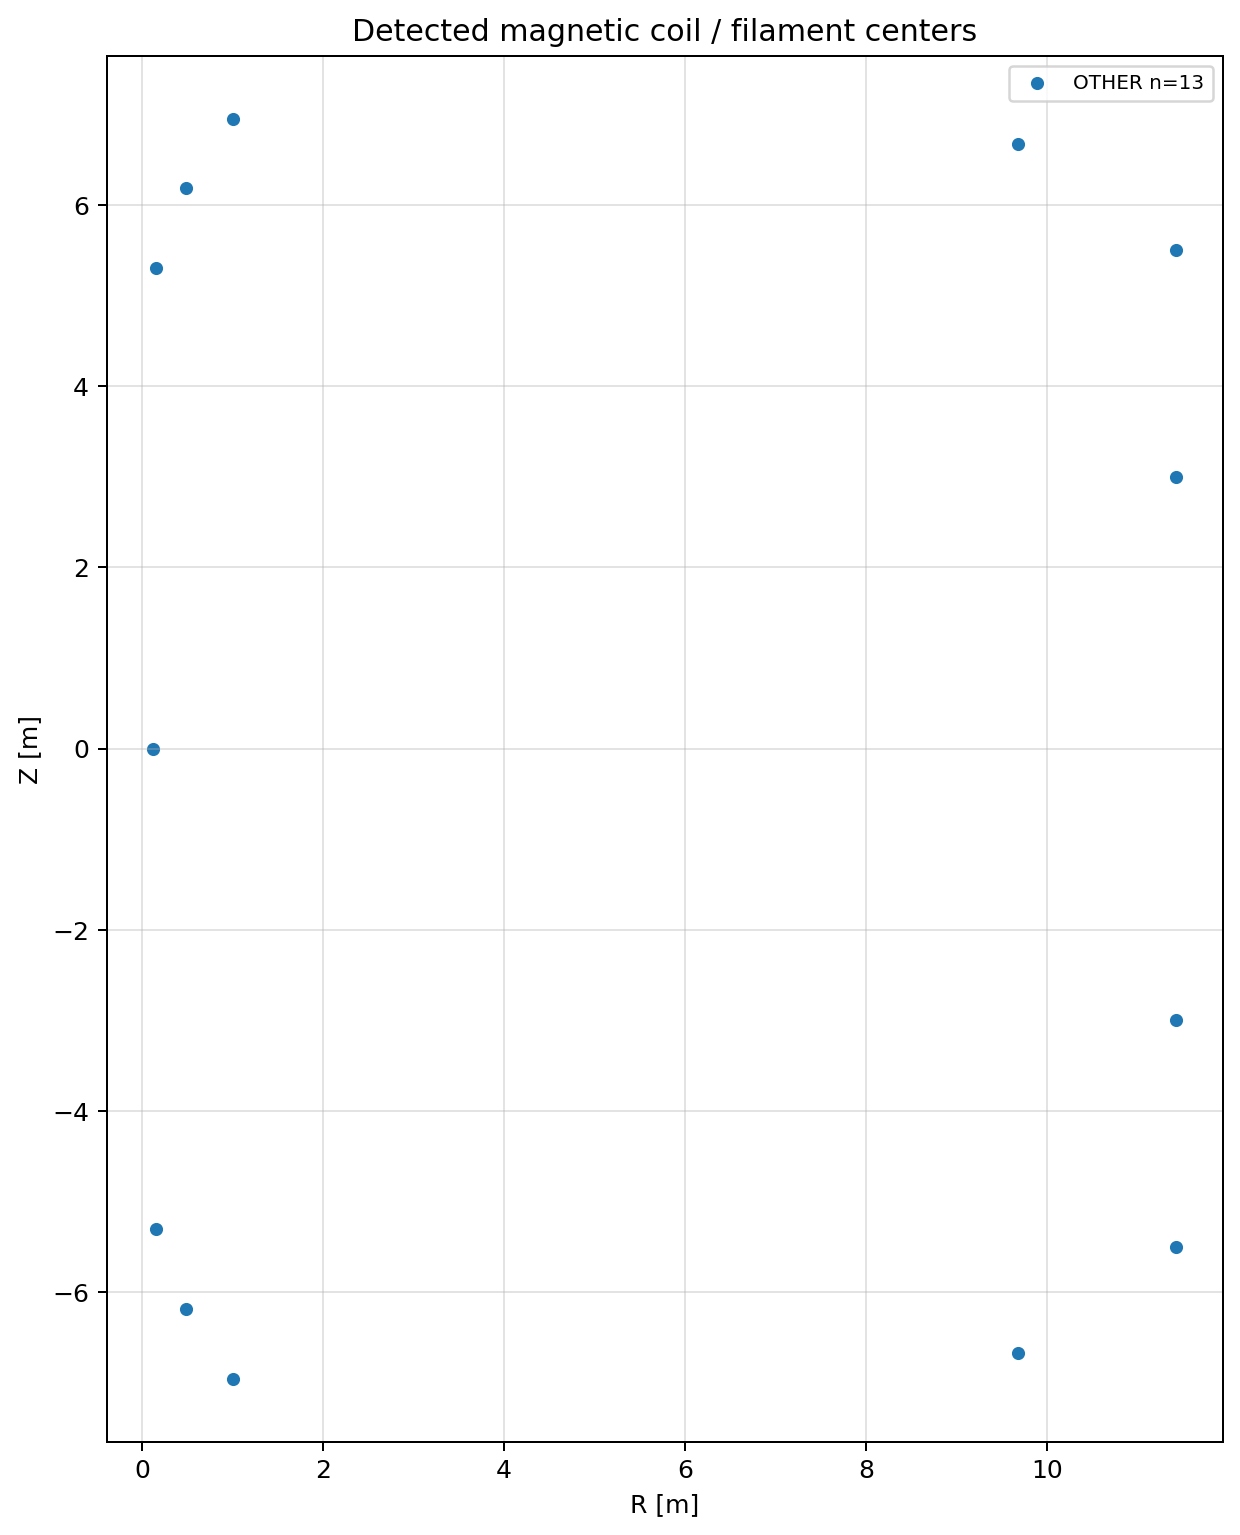
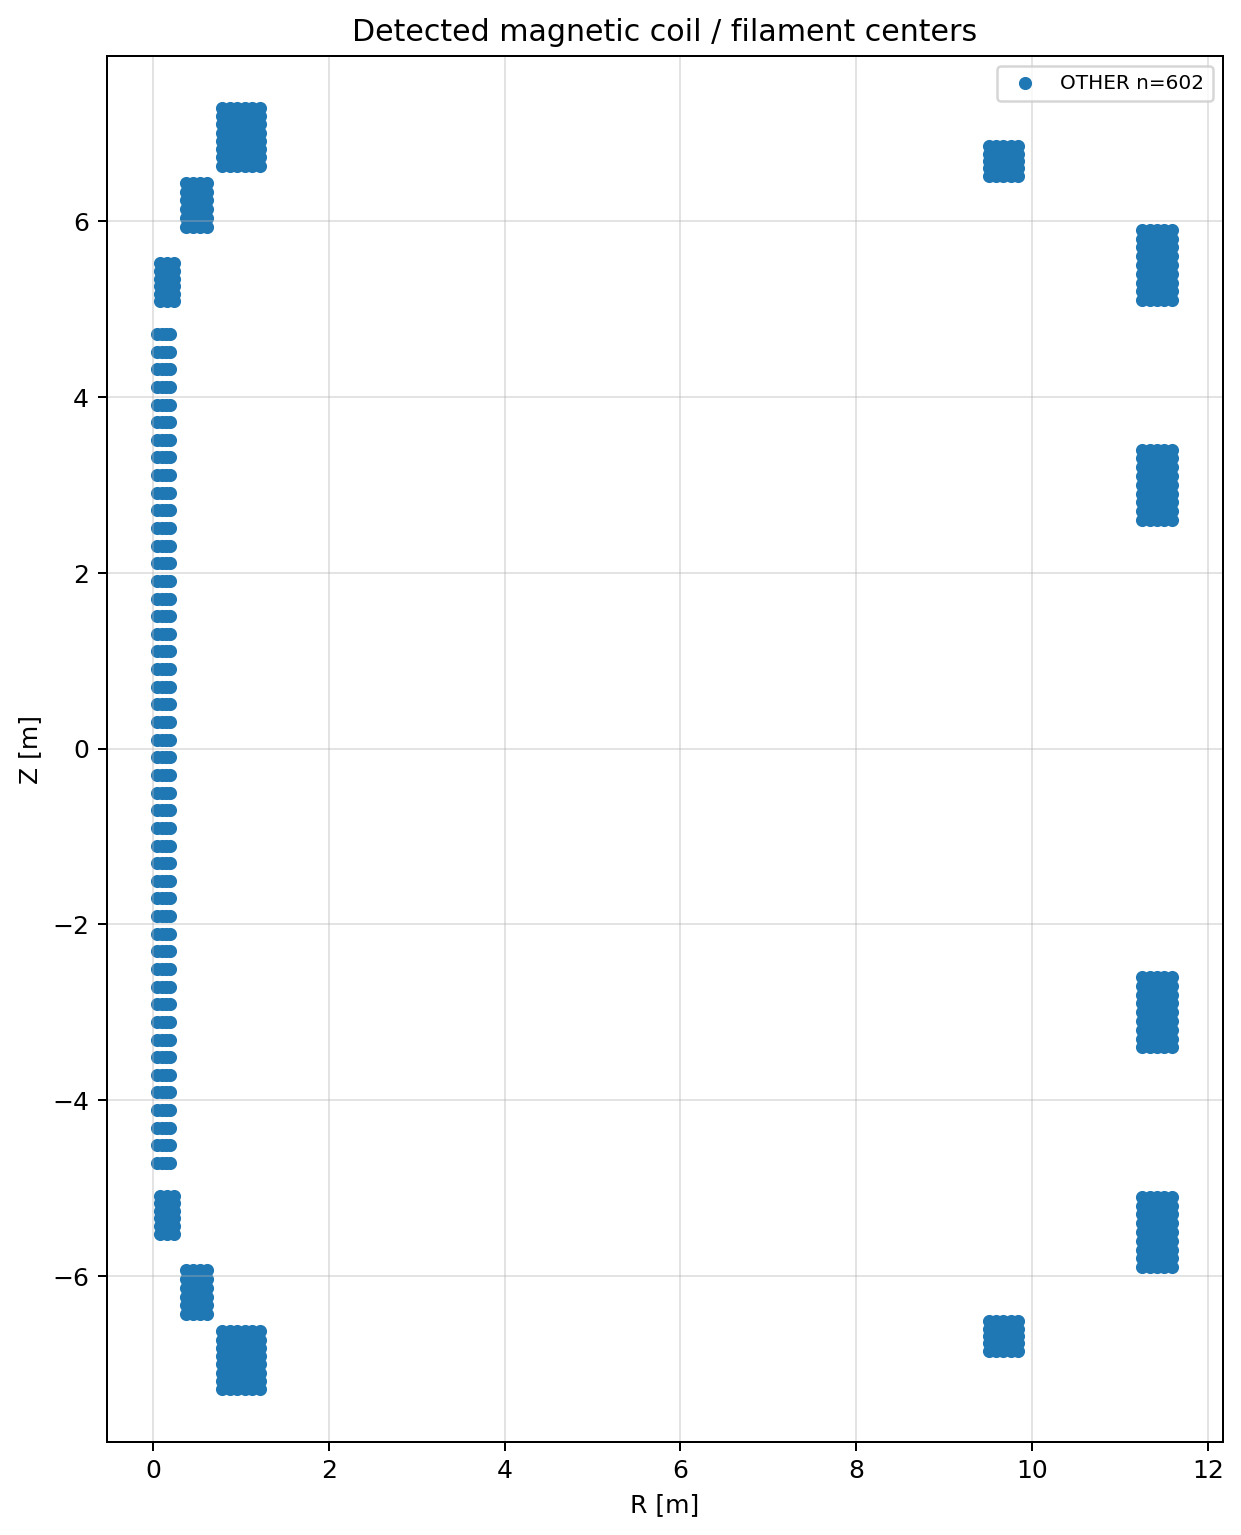
Better discretization coils

diff --git a/pyscripts/star_machine_cad.py b/pyscripts/star_machine_cad.py
@@ -191,6 +191,27 @@ class CADImportOptions:
     # Optional per-family overrides, e.g. {"CS": 35.0, "PF6": 45.0}
     family_J_override_A_per_mm2: Optional[Dict[str, float]] = None
 
+    # -------------------------
+    # Active coil discretization
+    # -------------------------
+    # If True, each CAD rectangular active coil is expanded into multiple
+    # smaller magnetic elements before building the FreeGS/freegs4e Machine.
+    coil_discretize_active: bool = True
+
+    # Target physical cell size for PF coils [m]
+    coil_target_dR_m: float = 0.12
+    coil_target_dZ_m: float = 0.12
+
+    # Target physical cell size for CS [m]
+    coil_target_dR_CS_m: float = 0.08
+    coil_target_dZ_CS_m: float = 0.18
+
+    # Safety clamps to avoid excessive filament counts
+    coil_nR_min: int = 2
+    coil_nZ_min: int = 2
+    coil_nR_max: int = 8
+    coil_nZ_max: int = 48
+
 
 # -----------------------------
 # Helpers
@@ -381,6 +402,147 @@ def _coil_from_rect_poly(xy: np.ndarray) -> Tuple[float, float, float, float]:
     dZ = 0.5 * (ymax - ymin)
     return Rc, Zc, dR, dZ
 
+def _active_coil_discretization_shape(label: str, dR: float, dZ: float, opts: CADImportOptions) -> Tuple[int, int]:
+    """
+    Choose nR, nZ from physical coil size, not from a fixed global grid.
+
+    dR, dZ are half-width and half-height of the CAD rectangular coil.
+    Full coil dimensions are:
+        width  = 2*dR
+        height = 2*dZ
+    """
+    fam = _coil_family(label)
+
+    width = 2.0 * float(dR)
+    height = 2.0 * float(dZ)
+
+    if width <= 0.0 or height <= 0.0:
+        raise ValueError(
+            f"Invalid active coil size for {label}: dR={dR}, dZ={dZ}"
+        )
+
+    if fam == "CS":
+        target_R = float(getattr(opts, "coil_target_dR_CS_m", 0.08))
+        target_Z = float(getattr(opts, "coil_target_dZ_CS_m", 0.18))
+    else:
+        target_R = float(getattr(opts, "coil_target_dR_m", 0.12))
+        target_Z = float(getattr(opts, "coil_target_dZ_m", 0.12))
+
+    target_R = max(target_R, 1.0e-6)
+    target_Z = max(target_Z, 1.0e-6)
+
+    nR = int(np.ceil(width / target_R))
+    nZ = int(np.ceil(height / target_Z))
+
+    nR_min = int(getattr(opts, "coil_nR_min", 2))
+    nZ_min = int(getattr(opts, "coil_nZ_min", 2))
+    nR_max = int(getattr(opts, "coil_nR_max", 8))
+    nZ_max = int(getattr(opts, "coil_nZ_max", 48))
+
+    nR = max(nR_min, min(nR, nR_max))
+    nZ = max(nZ_min, min(nZ, nZ_max))
+
+    return nR, nZ
+
+
+def _discretize_rect_coil_to_filaments(
+    label: str,
+    Rc: float,
+    Zc: float,
+    dR: float,
+    dZ: float,
+    *,
+    opts: CADImportOptions,
+) -> Dict[str, Tuple[float, float, float, float]]:
+    """
+    Convert one CAD rectangular active coil into many smaller magnetic elements.
+
+    Returns:
+        sub_label -> (R_sub, Z_sub, dR_sub, dZ_sub)
+
+    Important:
+    - dR_sub and dZ_sub are kept as geometry metadata.
+    - They should be used for area weights.
+    - They should NOT be passed positionally to MultiCoil as current/turns.
+    """
+    label = _normalize_label(label)
+
+    Rc = float(Rc)
+    Zc = float(Zc)
+    dR = float(dR)
+    dZ = float(dZ)
+
+    if dR <= 0.0 or dZ <= 0.0:
+        raise ValueError(
+            f"Invalid coil dimensions for {label}: "
+            f"Rc={Rc}, Zc={Zc}, dR={dR}, dZ={dZ}"
+        )
+
+    if not bool(getattr(opts, "coil_discretize_active", True)):
+        return {label: (Rc, Zc, dR, dZ)}
+
+    nR, nZ = _active_coil_discretization_shape(label, dR, dZ, opts)
+
+    if nR == 1 and nZ == 1:
+        return {label: (Rc, Zc, dR, dZ)}
+
+    Rmin = Rc - dR
+    Rmax = Rc + dR
+    Zmin = Zc - dZ
+    Zmax = Zc + dZ
+
+    # Cell centers.
+    Rs = np.linspace(Rmin, Rmax, nR + 2)[1:-1]
+    Zs = np.linspace(Zmin, Zmax, nZ + 2)[1:-1]
+
+    # Half-size of each subcell.
+    sub_dR = dR / float(nR)
+    sub_dZ = dZ / float(nZ)
+
+    out: Dict[str, Tuple[float, float, float, float]] = {}
+
+    k = 0
+    for i, R in enumerate(Rs):
+        for j, Z in enumerate(Zs):
+            k += 1
+            sub_label = f"{label}_F{k:03d}"
+            out[sub_label] = (
+                float(R),
+                float(Z),
+                float(sub_dR),
+                float(sub_dZ),
+            )
+
+    return out
+
+
+def _add_discretized_active_coil(
+    coils: Dict[str, Tuple[float, float, float, float]],
+    label: str,
+    Rc: float,
+    Zc: float,
+    dR: float,
+    dZ: float,
+    *,
+    opts: CADImportOptions,
+) -> None:
+    """
+    Add one CAD active coil to the coils dictionary, either as a single element
+    or as discretized sub-elements.
+    """
+    subcoils = _discretize_rect_coil_to_filaments(
+        label,
+        float(Rc),
+        float(Zc),
+        float(dR),
+        float(dZ),
+        opts=opts,
+    )
+
+    for sub_label, pack in subcoils.items():
+        if sub_label in coils:
+            raise ValueError(f"Duplicate active coil label after discretization: {sub_label}")
+        coils[sub_label] = pack
 
 def _subdivide_open_polyline_by_maxseg(poly_open: np.ndarray, max_len: float) -> np.ndarray:
     """
@@ -503,15 +665,37 @@ def _strip_auto_suffix(label: str) -> str:
     return re.sub(r"_[0-9]+$", "", str(label).strip().upper())
 
 
-def _coil_family(label: str) -> str:
-    lab = _strip_auto_suffix(_normalize_label(label))
-    if lab.startswith("CS"):
-        return "CS"
-    m = re.match(r"^(PF[0-9]+)", lab)
-    if m:
-        return m.group(1)
-    return lab
+# def _coil_family(label: str) -> str:
+#     lab = _strip_auto_suffix(_normalize_label(label))
+#     if lab.startswith("CS"):
+#         return "CS"
+#     m = re.match(r"^(PF[0-9]+)", lab)
+#     if m:
+#         return m.group(1)
+#     return lab
 
+def _coil_family(label: str) -> str:
+    """
+    Map detailed CAD/subcoil labels to current-control families.
+
+    Examples:
+        PF4U        -> PF4
+        PF4U_F001   -> PF4
+        PF4L_F017   -> PF4
+        CS1M        -> CS
+        CS1M_F012   -> CS
+    """
+    s = _normalize_label(label).upper()
+
+    if s.startswith("CS"):
+        return "CS"
+
+    for k in range(1, 10):
+        fam = f"PF{k}"
+        if s.startswith(fam):
+            return fam
+
+    return s
 
 def _area_from_dR_dZ(dR: float, dZ: float) -> float:
     a = 4.0 * float(dR) * float(dZ)
@@ -1458,7 +1642,16 @@ def load_geom_from_dxf(
                 k += 1
                 label = f"{base_label}_{k}"
 
-            coils[label] = (float(Rc), float(Zc), float(dR), float(dZ))
+            # coils[label] = (float(Rc), float(Zc), float(dR), float(dZ))
+            _add_discretized_active_coil(
+                coils,
+                label,
+                float(Rc),
+                float(Zc),
+                float(dR),
+                float(dZ),
+                opts=opts,
+            )
 
     else:
         coil_rects = polylines_in_layer(layers.coils_layer)
@@ -1485,7 +1678,16 @@ def load_geom_from_dxf(
                     f"Duplicate coil label '{label}' inferred from COILS/COIL_LABELS. "
                     "This mode is ambiguous. Prefer per-coil layers COIL_<NAME>."
                 )
-            coils[label] = (float(Rc), float(Zc), float(dR), float(dZ))
+            # coils[label] = (float(Rc), float(Zc), float(dR), float(dZ))
+            _add_discretized_active_coil(
+                coils,
+                label,
+                float(Rc),
+                float(Zc),
+                float(dR),
+                float(dZ),
+                opts=opts,
+            )
 
     # ---- Coil grouping (families + area weights)
     coil_groups: Dict[str, List[str]] = {}
@@ -1664,55 +1866,112 @@ def make_star_machine_from_cad(
 
     geom = load_geom_from_dxf(dxf, layers=layers, opts=opts)
 
+    # ------------------------------------------------------------------
     # Optional strict coil check (ACTIVE coils only)
+    #
+    # Compatible with both:
+    #   old labels: PF1U, PF1L, CS1M, ...
+    #   discretized labels: PF1U_F001, PF1U_F002, CS1M_F001, ...
+    #
+    # The check accepts an expected coil if:
+    #   1) the exact label exists,
+    #   2) its family exists in coil_groups / have_fams,
+    #   3) at least one actual coil label starts with expected_label + "_"
+    #      e.g. PF1U is satisfied by PF1U_F001.
+    # ------------------------------------------------------------------
     if strict_expected:
         if expected_coils is None:
-            expected_coils = {"CS", "PF1U", "PF1L", "PF2U", "PF2L", "PF3U", "PF3L"}
+            # After active-coil discretization, checking by family is more robust
+            # than requiring exact upper/lower labels.
+            expected_coils = {"CS", "PF1", "PF2", "PF3", "PF4", "PF5", "PF6"}
 
         have = set(_normalize_label(k) for k in geom["coils"].keys())
         have_fams = set(_coil_family(k) for k in have)
 
+        coil_groups = geom.get("coil_groups", {})
+        have_group_fams = set(_normalize_label(k) for k in coil_groups.keys())
+
         missing = []
+
         for exp in expected_coils:
             expn = _normalize_label(exp)
+            expfam = _coil_family(expn)
+
+            # Exact label exists.
             if expn in have:
                 continue
-            if expn in have_fams:
+
+            # Family exists, e.g. expected PF1 and have PF1U_F001/PF1L_F001.
+            if expn in have_fams or expn in have_group_fams:
                 continue
+
+            # Expected upper/lower prefix exists after discretization,
+            # e.g. expected PF1U and have PF1U_F001.
+            prefix_match = any(
+                lab == expn or lab.startswith(expn + "_")
+                for lab in have
+            )
+            if prefix_match:
+                continue
+
+            # Expected family exists even if expected was PF1U/PF1L.
+            if expfam in have_fams or expfam in have_group_fams:
+                continue
+
             missing.append(expn)
 
         if missing:
-            raise ValueError(f"Missing expected coils in CAD import: {sorted(missing)}")
+            raise ValueError(
+                f"Missing expected coils/families in CAD import: {sorted(missing)}"
+            )
 
     vessel_wall = machine.Wall(geom["R_outer"], geom["Z_outer"])
+
     limiter = None
     if "R_inner" in geom and "Z_inner" in geom:
         limiter = machine.Wall(geom["R_inner"], geom["Z_inner"])
 
     coils_for_machine = []
+
     for label, (Rc, Zc, dR, dZ) in geom["coils"].items():
         lab = _normalize_label(label)
-        c = machine.MultiCoil(float(Rc), float(Zc), float(dR), float(dZ))
+
+        # Important:
+        # MultiCoil's third and fourth arguments are current and turns,
+        # not physical dR/dZ. Geometry was already discretized into centers.
+        # Current is assigned later by apply_group_currents(...).
+        c = machine.MultiCoil(
+            float(Rc),
+            float(Zc),
+            current=0.0,
+            turns=1.0,
+        )
+
         try:
             c.label = lab
         except Exception:
             pass
+
         coils_for_machine.append((lab, c))
 
     # ---- Passive blanket filaments (current=0)
     passive_labels: List[str] = []
+
     if "blanket_filaments" in geom:
         for (lab0, Rc, Zc, dR, dZ) in geom["blanket_filaments"]:
             lab = _normalize_label(lab0)
             c = machine.MultiCoil(float(Rc), float(Zc), float(dR), float(dZ))
+
             try:
                 c.label = lab
             except Exception:
                 pass
+
             try:
                 c.current = 0.0
             except Exception:
                 pass
+
             coils_for_machine.append((lab, c))
             passive_labels.append(lab)
 
@@ -1725,17 +1984,21 @@ def make_star_machine_from_cad(
             pass
 
     active_labels = [_normalize_label(x) for x in geom["coils"].keys()]
+
     tokamak.active_coils = list(active_labels)
     tokamak.passive_coils = list(passive_labels)
 
     tokamak.R0 = float(geom.get("R0", np.nan))
     tokamak.geom = geom
+
+    # Includes active + passive coils.
     tokamak.coils_dict = {label: coil for label, coil in coils_for_machine}
+
+    # These are critical for apply_group_currents(...).
     tokamak.coil_groups = dict(geom.get("coil_groups", {}))
     tokamak.coil_group_weights = dict(geom.get("coil_group_weights", {}))
 
     return tokamak, geom
-
 
 # -----------------------------
 # Optional: apply grouped currents
